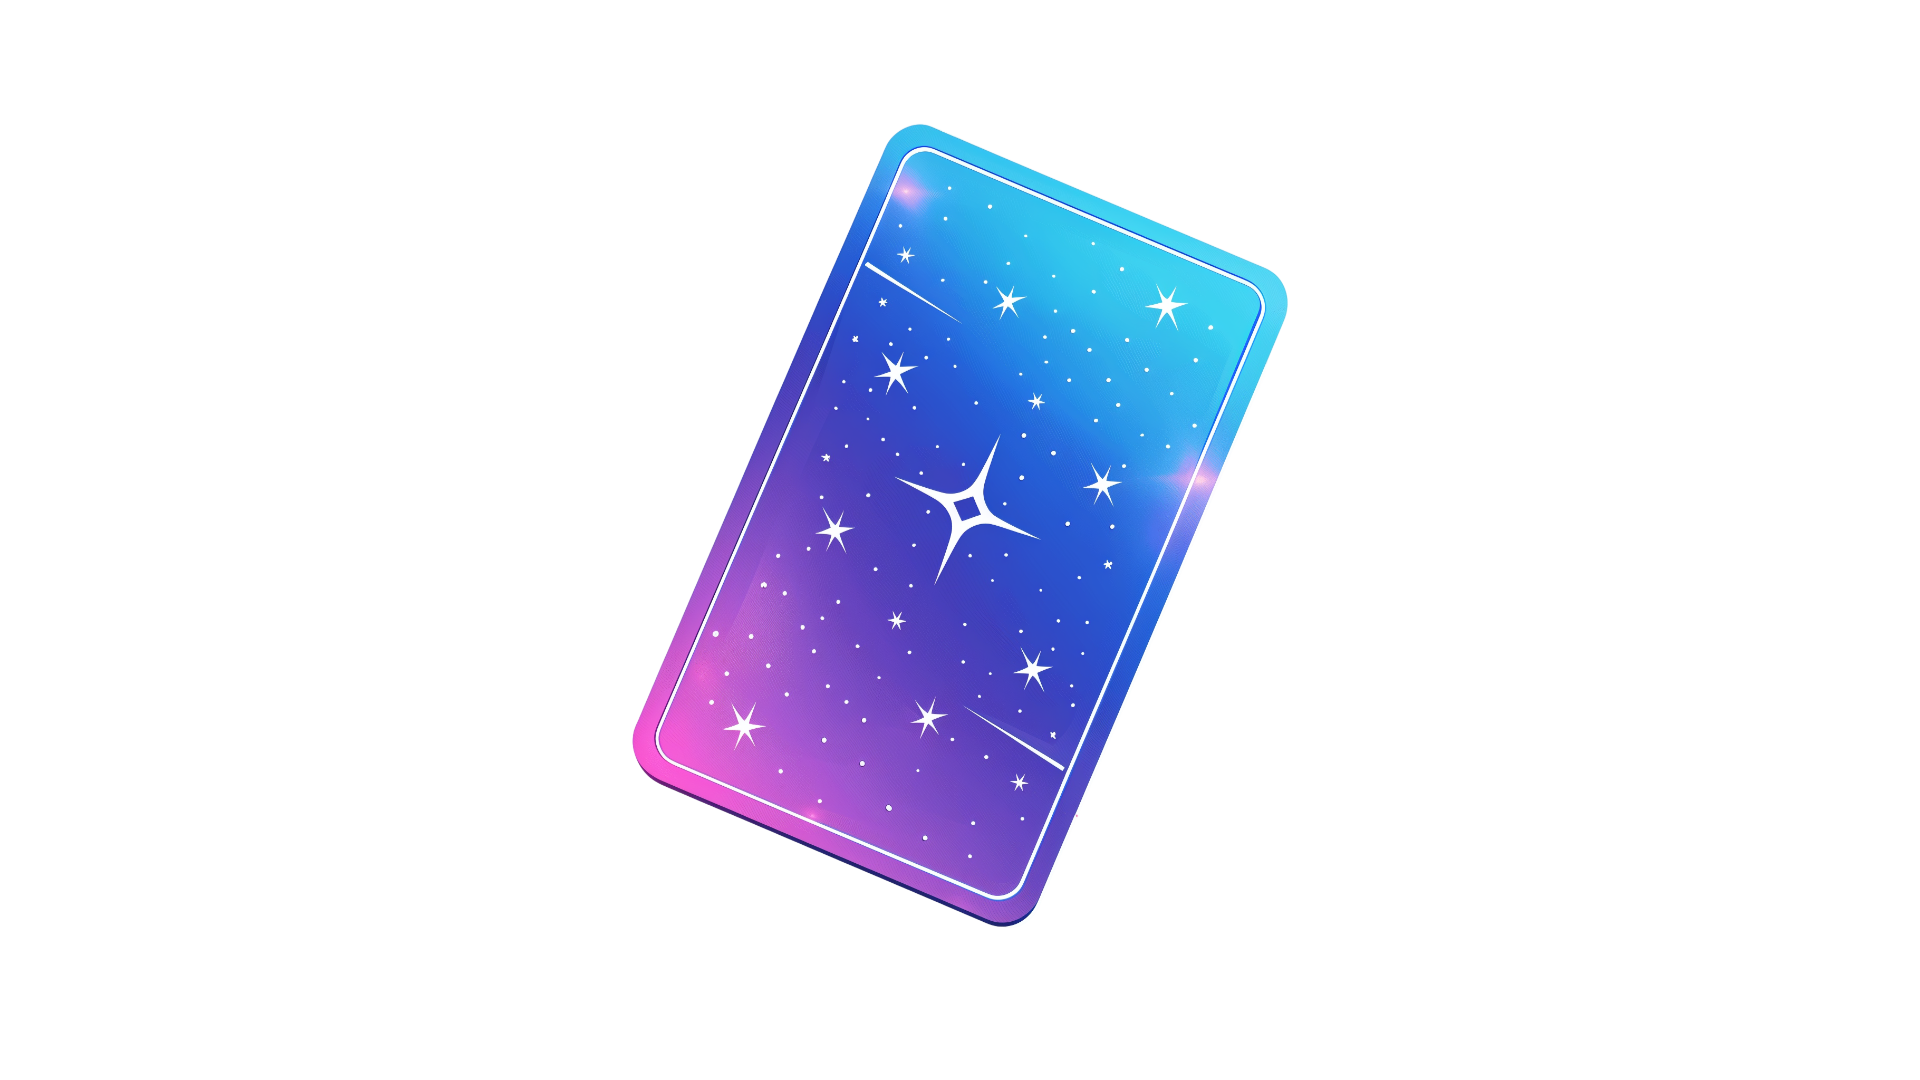
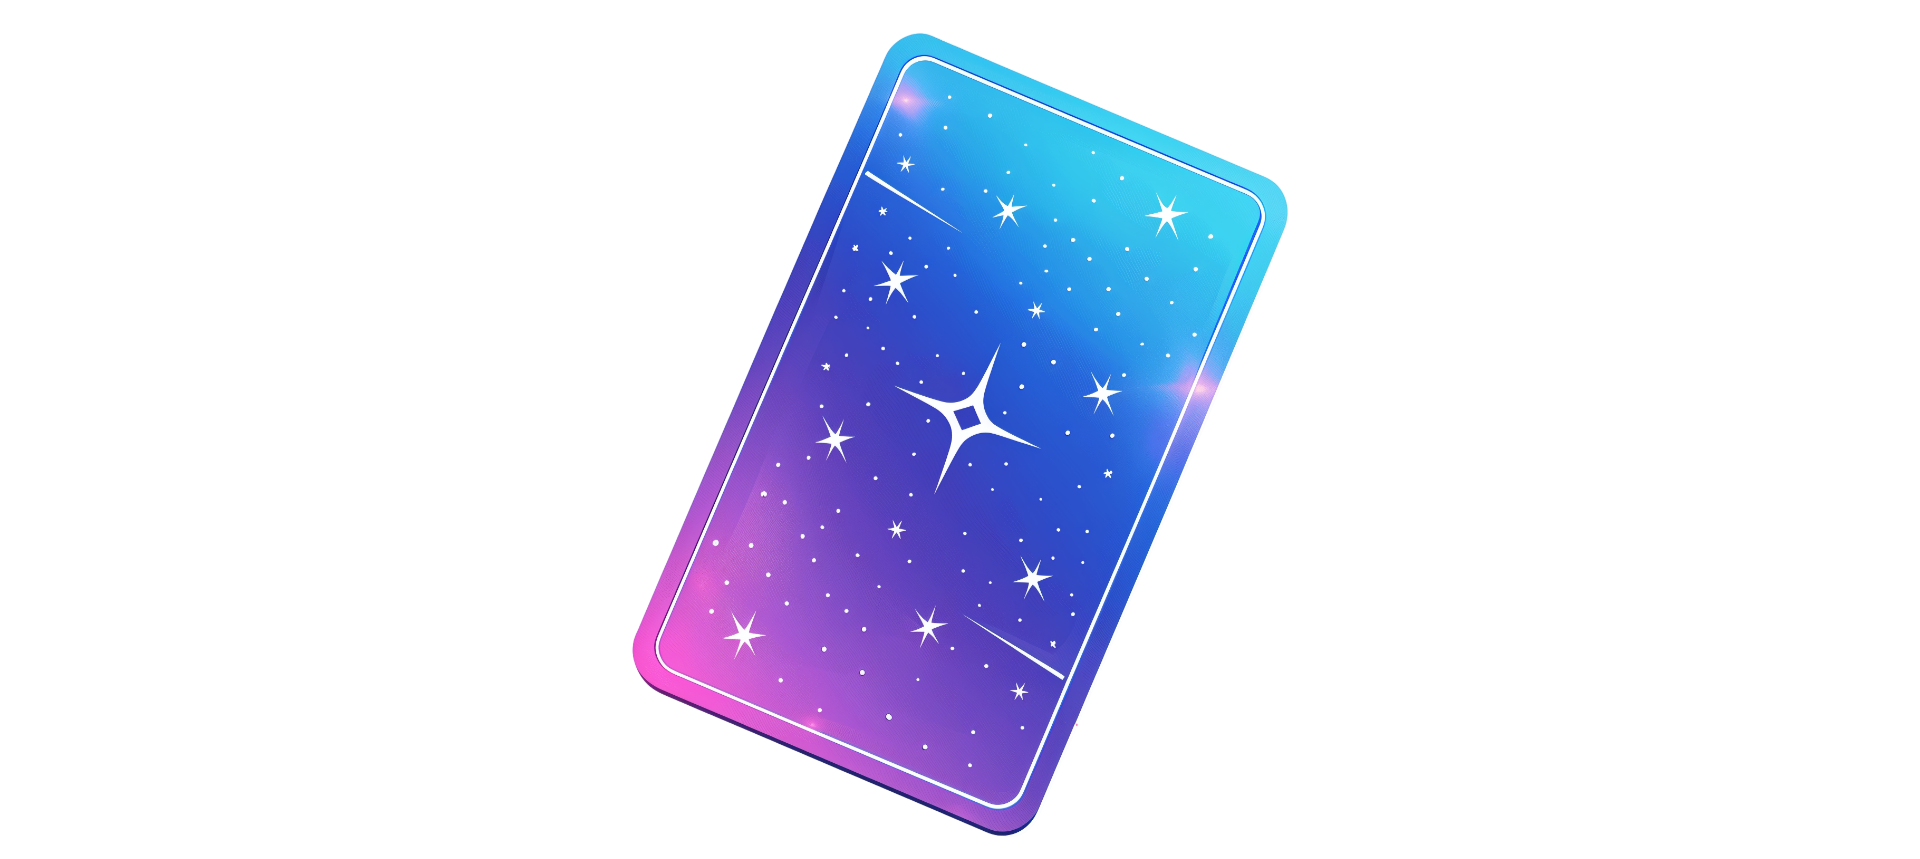
widgets added main page ready for test on tg

Changed region(s): [[0.3125, 0.4237, 0.6562, 0.9686], [0.4062, 0.0303, 0.6875, 0.3935], [0.4688, 0.4237, 0.5312, 0.5448]]

diff --git a/DurakTG_App/src/app/pages/main-page/main-page.component.ts b/DurakTG_App/src/app/pages/main-page/main-page.component.ts
@@ -2,11 +2,13 @@ import { Component } from '@angular/core';
 import { ProfileCardComponent } from '../../common_ui/profile-card/profile-card.component';
 import { AdvertBannerComponent } from '../../common_ui/advert-banner/advert-banner.component';
 import { QuickGameLargeComponent } from '../../common_ui/quick-game-large/quick-game-large.component';
+import { TopWidgetComponent } from '../../common_ui/top-widget/top-widget.component';
+import { EarnWidgetComponent } from '../../common_ui/earn-widget/earn-widget.component';
 
 @Component({
   selector: 'app-main-page',
   standalone: true,
-  imports: [ProfileCardComponent, AdvertBannerComponent, QuickGameLargeComponent],
+  imports: [ProfileCardComponent, AdvertBannerComponent, QuickGameLargeComponent, TopWidgetComponent, EarnWidgetComponent],
   templateUrl: './main-page.component.html',
   styleUrl: './main-page.component.scss'
 })

diff --git a/DurakTG_App/src/app/common_ui/earn-widget/earn-widget.component.scss b/DurakTG_App/src/app/common_ui/earn-widget/earn-widget.component.scss
@@ -1,0 +1,48 @@
+.layout {
+  background-color: var(--widget-color);
+  width: 96%;
+  height: 96%;
+  margin: 2%;
+  display: grid;
+  border-radius: 5% / 10%;
+  min-height: 100px;
+}
+
+
+.title {
+  height: fit-content;
+  color: var(--font-color);
+  font-size: 30px;
+  font-weight: 500;
+  text-align: center;
+}
+
+.progress_bar {
+  width: 86%;
+  margin: 15% 7%;
+  margin-bottom: 10%;
+  background-color: var(--font-color);
+  height: 20px;
+  border-radius: 7% / 45%;
+}
+
+.progress {
+  background-color: #FFD013;
+  justify-self: left;
+  height: 20px;
+  border-radius: 7% / 45%;
+}
+
+.earn_progress {
+  color: var(--font-color);
+  font-size: 4vw;
+  text-align: center;
+
+}
+
+.income {
+  color: #BEBEBE;
+  font-size: 4vw;
+  text-align: center;
+  margin: 2%;
+}

diff --git a/DurakTG_App/src/app/common_ui/top-widget/top-widget.component.scss b/DurakTG_App/src/app/common_ui/top-widget/top-widget.component.scss
@@ -1,0 +1,41 @@
+.layout {
+  background-color: var(--widget-color);
+  width: 96%;
+  height: fit-content;
+  margin: 2%;
+  display: grid;
+  border-radius: 5% / 10%;
+  min-height: 100px;
+}
+
+
+.title {
+  height: fit-content;
+  color: var(--font-color);
+  font-size: 30px;
+  font-weight: 500;
+  text-align: center;
+}
+
+img {
+  height: 32vw;
+  width: 96%;
+  margin: -12% 2%;
+  margin-bottom: -8%;
+}
+
+.rank {
+  height: fit-content;
+  border-radius: 5% / 10%;
+  background-color: #D9D9D980;
+  width: 90%;
+  margin: 0 5%;
+  margin-bottom: 3%;
+}
+
+.rank p {
+  color: var(--font-color);
+  font-size: 4vw;
+  margin: 2%;
+  text-align: center;
+}

diff --git a/DurakTG_App/src/app/common_ui/menu/menu.component.scss b/DurakTG_App/src/app/common_ui/menu/menu.component.scss
@@ -2,21 +2,20 @@
   display: grid;
   grid-template-columns: repeat(5, 1fr);
   margin: 2%;
-  // position: absolute;
-  // bottom: 0;
+  margin-bottom: 2%;
   border-radius: 10% / 25%;
   width: 96%;
   height: 82px;
   background-color: var(--menu-back-color);
+
 }
 
 .main_page {
   background-color: var(--back-color);
   background-size:100% 100%;
-  height: 100%;
   display: grid;
-  grid-template-rows: 1fr 1fr;
-
+  grid-template-rows: auto auto;
+  height: 100%;
 }
 
 

diff --git a/DurakTG_App/src/app/common_ui/profile-card/profile-card.component.scss b/DurakTG_App/src/app/common_ui/profile-card/profile-card.component.scss
@@ -1,11 +1,12 @@
 .profile_card {
   background: linear-gradient(90deg, rgba(29,48,60,1) 0%, rgba(35,89,117,1) 100%);
   width: 96%;
-  height: 96%;
+  height: fit-content;
   margin: 2%;
   display: grid;
   grid-template-columns: repeat(3, 1fr);
   border-radius: 5% / 10%;
+
 }
 
 .column {

diff --git a/DurakTG_App/src/app/common_ui/earn-widget/earn-widget.component.ts b/DurakTG_App/src/app/common_ui/earn-widget/earn-widget.component.ts
@@ -1,0 +1,12 @@
+import { Component } from '@angular/core';
+
+@Component({
+  selector: 'app-earn-widget',
+  standalone: true,
+  imports: [],
+  templateUrl: './earn-widget.component.html',
+  styleUrl: './earn-widget.component.scss'
+})
+export class EarnWidgetComponent {
+
+}

diff --git a/DurakTG_App/src/app/common_ui/top-widget/top-widget.component.ts b/DurakTG_App/src/app/common_ui/top-widget/top-widget.component.ts
@@ -1,0 +1,12 @@
+import { Component } from '@angular/core';
+
+@Component({
+  selector: 'app-top-widget',
+  standalone: true,
+  imports: [],
+  templateUrl: './top-widget.component.html',
+  styleUrl: './top-widget.component.scss'
+})
+export class TopWidgetComponent {
+
+}

diff --git a/DurakTG_App/src/app/pages/main-page/main-page.component.html b/DurakTG_App/src/app/pages/main-page/main-page.component.html
@@ -2,5 +2,10 @@
   <app-profile-card></app-profile-card>
   <app-advert-banner></app-advert-banner>
   <app-quick-game-large></app-quick-game-large>
+  <div class="widgets">
+    <app-top-widget></app-top-widget>
+    <app-earn-widget></app-earn-widget>
+  </div>
+
 </body>
 

diff --git a/DurakTG_App/src/app/common_ui/earn-widget/earn-widget.component.html b/DurakTG_App/src/app/common_ui/earn-widget/earn-widget.component.html
@@ -1,0 +1,9 @@
+<body class="layout">
+  <p class="title">EARN</p>
+  <div class="progress_bar">
+    <div class="progress" style="width: 70%;"></div>
+  </div>
+  <p class="earn_progress">115/200 🪙</p>
+  <p class="income">10/per hour</p>
+</body>
+

diff --git a/DurakTG_App/src/app/pages/main-page/main-page.component.scss b/DurakTG_App/src/app/pages/main-page/main-page.component.scss
@@ -1,4 +1,10 @@
 .main_page {
+
   display: grid;
-  grid-template-rows: repeat(3, auto);
+  grid-template-rows: repeat(4, auto);
+}
+
+.widgets {
+  display: grid;
+  grid-template-columns: 50% 50%;
 }

diff --git a/DurakTG_App/src/app/common_ui/advert-banner/advert-banner.component.scss b/DurakTG_App/src/app/common_ui/advert-banner/advert-banner.component.scss
@@ -89,10 +89,10 @@
 }
 
 .card {
-  height: 80px;
+  height: 70px;
   width: auto;
   margin-left: -35%;
   margin-top: 30%;
-  margin-bottom: -90%;
+  margin-bottom: -70%;
   overflow-y:unset;
 }

diff --git a/DurakTG_App/src/app/common_ui/quick-game-large/quick-game-large.component.scss b/DurakTG_App/src/app/common_ui/quick-game-large/quick-game-large.component.scss
@@ -39,10 +39,10 @@
 
 
 .cards {
-  height: 230px;
+  height: 150px;
   width: 100%;
   object-fit: cover;
-  margin-top: -25px;
+  margin-top: 5px;
   margin-bottom: -80px;
   margin-left: 1%;
 }
